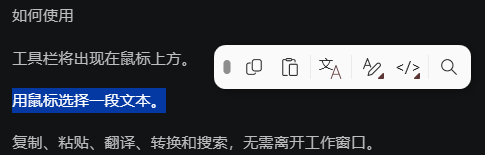
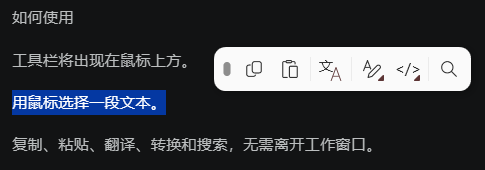
docs: README 补「如何使用」并换上新截图，清掉误提交的临时文件
- README：新增「如何使用」小节（沿用你草稿里的文案）并放上新版工具栏截图，快速开始保留 4 步可照做
- docs/images/use-zh.png 换成新截图：原文件被前置了 UTF-8 BOM（EF BB BF），部分查看器会报「不是图片」，
  这里去掉 BOM 后写回（485x170，有效 PNG）
- 删除上一条提交里被 git add -A 误纳的临时文件：.md（草稿）、img.png 与 img_1.png
  （同一张图存了两份且都带 BOM）；文案已并入 README，图片已落到 docs/images/
- 细节仍在 docs/user-guide.md：使用/自定义、翻译与在线查询、JS 脚本（含两个示例）、设置项、隐私、构建与 CI

diff --git a/README.md b/README.md
@@ -7,9 +7,11 @@ A Windows selection toolbar that appears when you select text — an independent
 
 仓库 <https://github.com/XuejiMeixiangli/IKnowText> · 详细文档：[用户指南](docs/user-guide.md)
 
-![截图](docs/images/use-zh.png)
+## 如何使用
 
-## 快速开始
+工具栏会出现在鼠标上方：选中一段文本，然后用它复制、粘贴、翻译、转换和搜索，无需离开工作窗口。
+
+![工具栏](docs/images/use-zh.png)
 
 1. 下载发布包，解压到固定位置 —— 单文件自包含，免安装、不需要 WebView2
 2. 运行 `IKnowText.exe`（需要管理员权限：动作要向其它程序注入按键）
